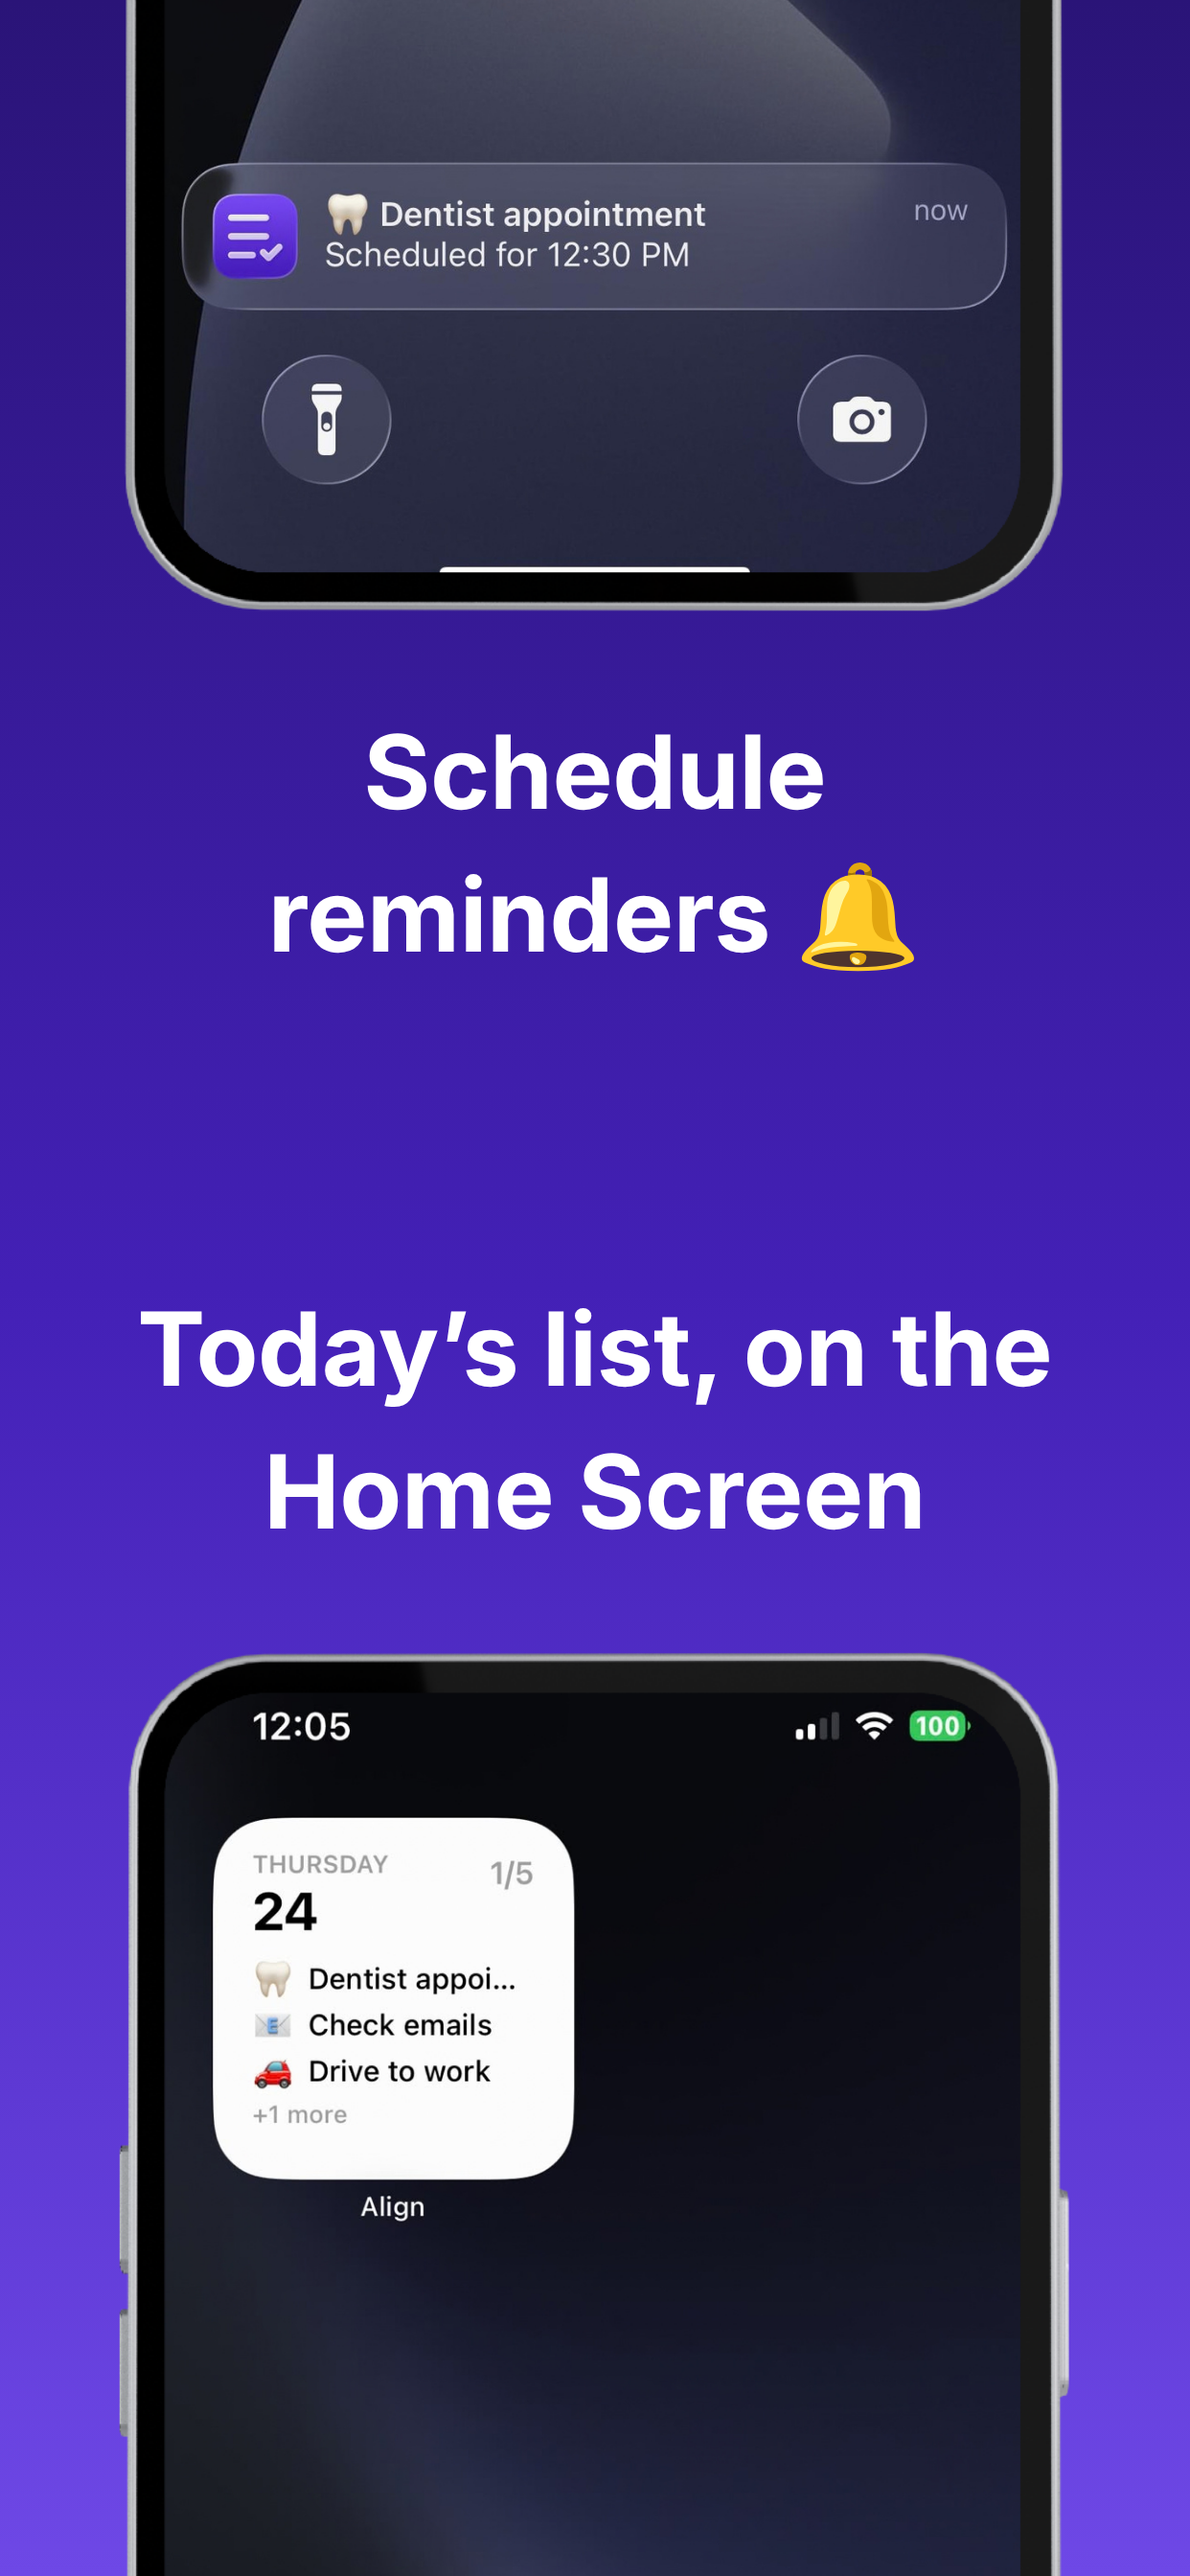
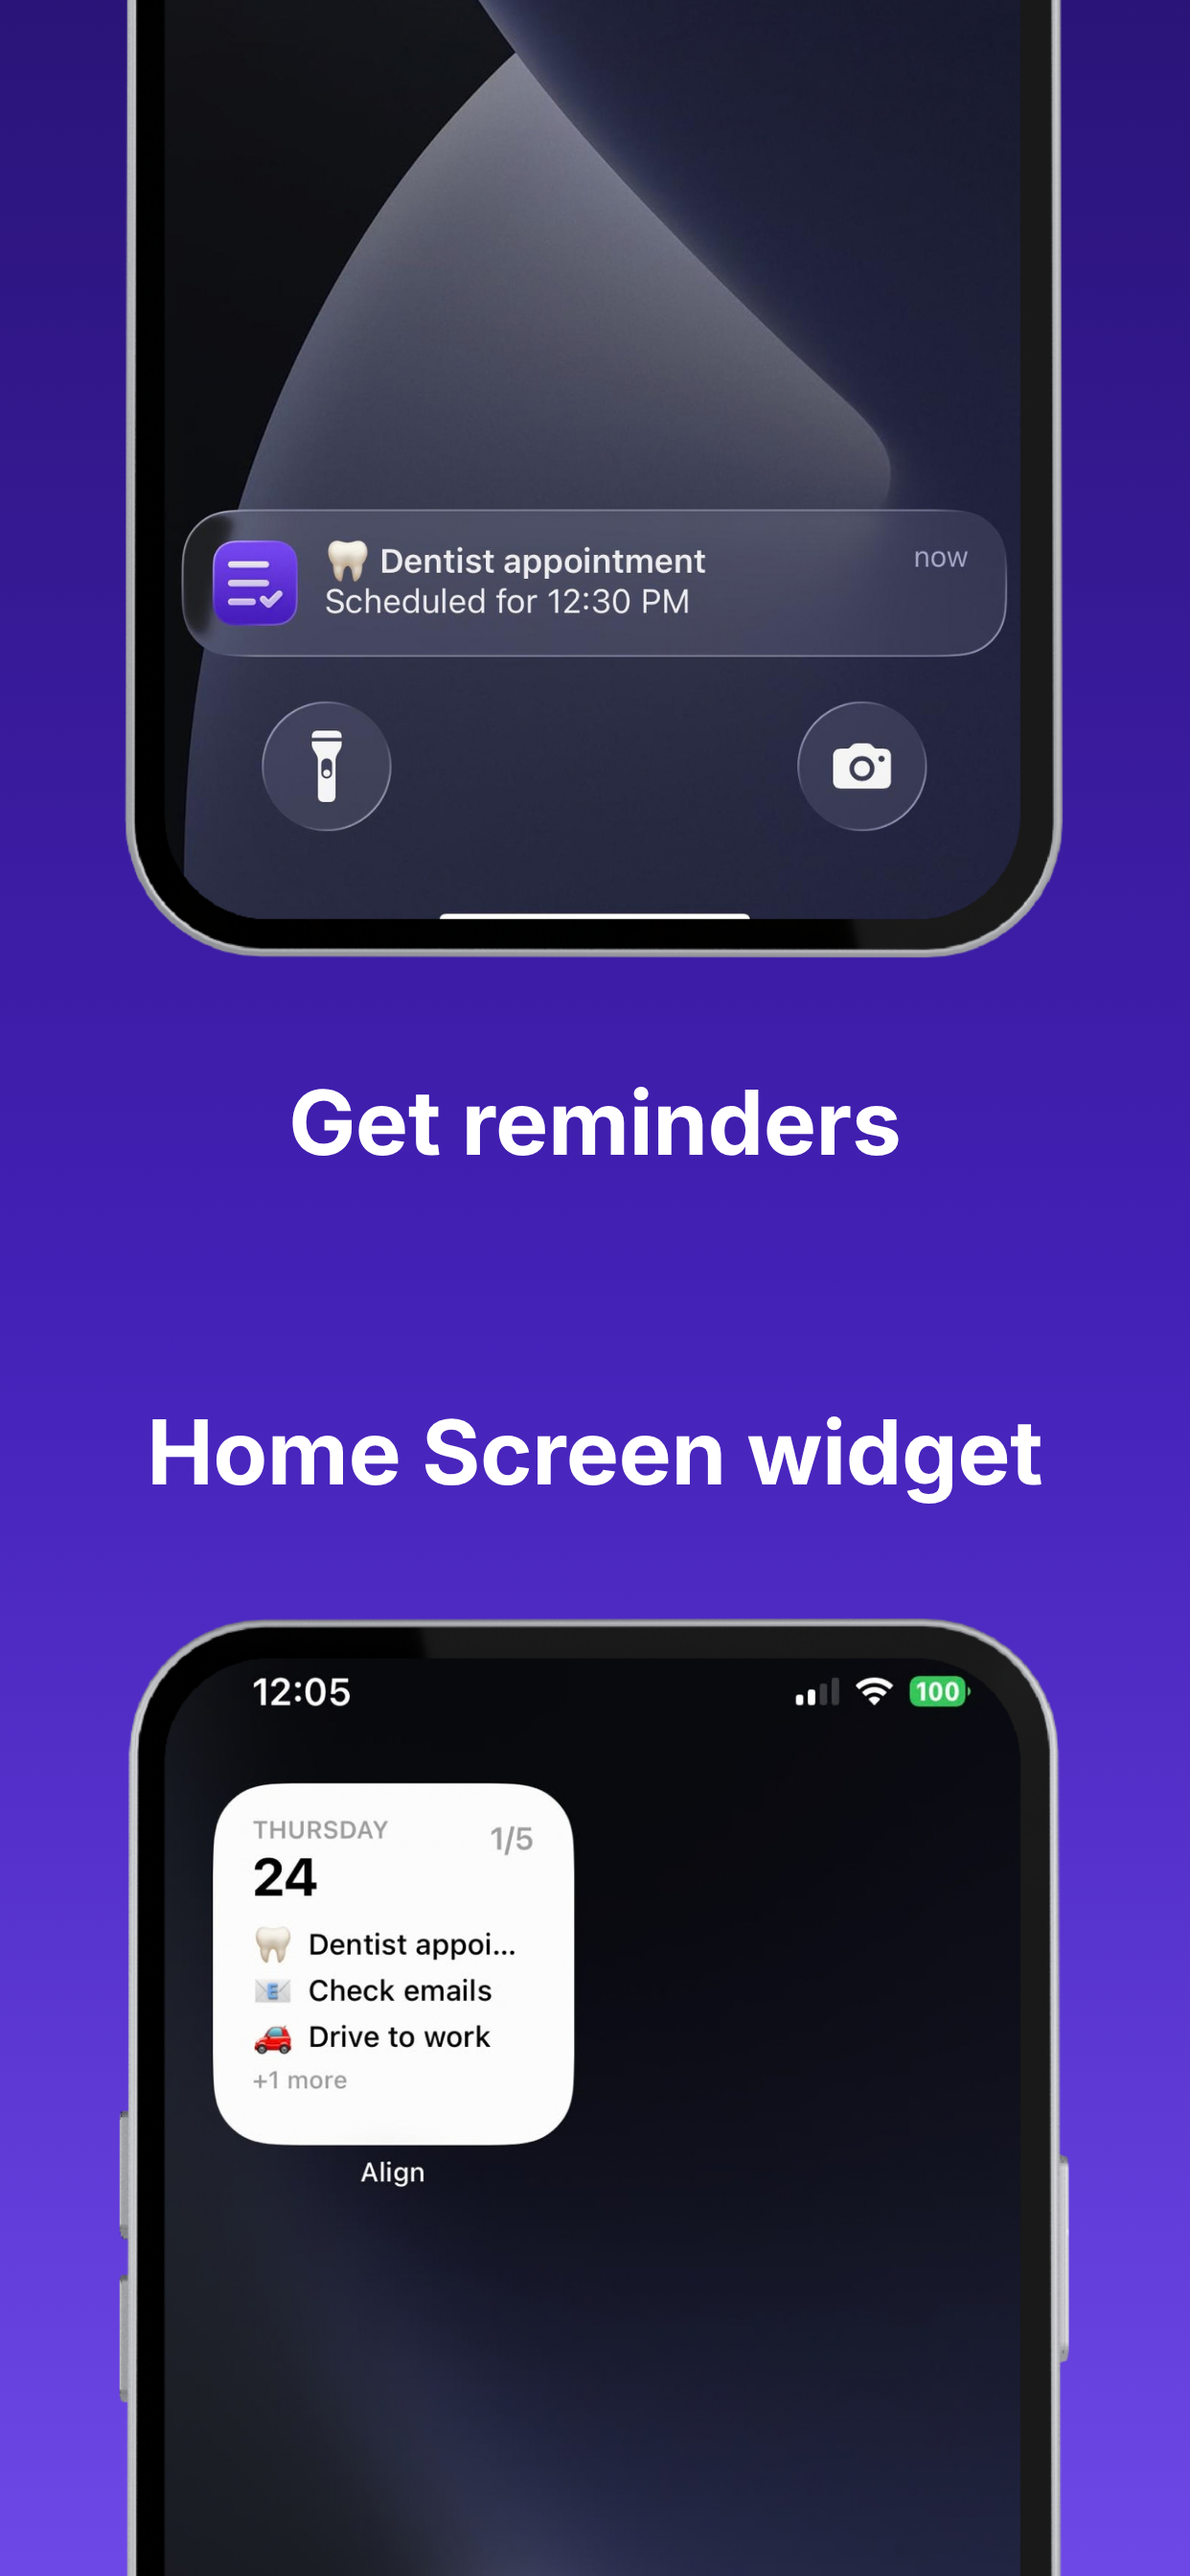
feat: update content and media assets for Align app
- Revised text across multiple pages for clarity, emphasizing the app's functionality and user experience.
- Updated image assets to reflect new branding and improved visual consistency.
- Changed references from "Quick Capture" to "Voice Capture" to better describe the feature.

diff --git a/src/app/align/page.tsx b/src/app/align/page.tsx
@@ -17,12 +17,12 @@ const faqs = [
   {
     question: "What is Align?",
     answer:
-      "Align is a daily task planner for iPhone and iPad. You speak or type what you need to do, put tasks on a clock, and work from a list you can finish.",
+      "Align is a daily planner for iPhone and iPad. You speak or type what’s on your mind, and it turns those thoughts into a clear plan you can run.",
   },
   {
     question: "Is Align a daily planner or a to-do list?",
     answer:
-      "Both. Align is a daily task planner with a to-do list at the centre: plan today, put tasks on a clock, get reminders, and check them off.",
+      "Both. Align is a daily planner with a to-do list at the centre: plan today, place tasks on the clock, get reminders, and complete them.",
   },
   {
     question: "Who is Align for?",
@@ -198,10 +198,10 @@ export default function AlignPage() {
             </div>
           </div>
           <div className="hero-main">
-            <h1 className="hero-promise">Your daily task planner</h1>
+            <h1 className="hero-promise">Your simple day planner</h1>
             <p className="hero-lede">
-              Speak or type. Plan it in seconds. Get today out of your head and
-              onto a list.
+              Speak or type what’s on your mind. Turn it into a clear plan in
+              seconds.
             </p>
             <StoreCta className="cta" />
           </div>
@@ -209,7 +209,7 @@ export default function AlignPage() {
         <div className="hero-shots">
           <p className="platforms">iPhone, iPad</p>
           <div className="shots">
-            <img src="/align/ss-todo.png" alt="Your daily task planner" />
+            <img src="/align/ss-todo.png" alt="Your simple day planner" />
             <img src="/align/ss-speak.png" alt="Speak. Brain dump your tasks." />
             <img src="/align/ss-timebox.png" alt="Your day, on a clock" />
             <img
@@ -228,11 +228,11 @@ export default function AlignPage() {
         <section className="qc-section">
           <div className="qc">
             <div className="qc-copy">
-              <p className="qc-kicker">Quick Capture</p>
+              <p className="qc-kicker">Voice Capture</p>
               <h2>Speak. Brain dump your tasks.</h2>
               <p>
-                Speak what you need to do — and when. Quick Capture turns it
-                into tasks you can save in seconds. You can type them too.
+                Speak what’s in your head. Align files each thought as a task
+                you can save in seconds. You can type them too.
               </p>
               <ol className="qc-steps">
                 <li>
@@ -253,7 +253,7 @@ export default function AlignPage() {
               loop
               playsInline
               poster="/align/ss-speak.png"
-              aria-label="Quick Capture app preview"
+              aria-label="Voice Capture app preview"
             />
           </div>
         </section>
@@ -262,34 +262,35 @@ export default function AlignPage() {
           <h2>What you can do</h2>
           <ul className="features">
             <li>
-              <strong>Quick Capture</strong> — speak what you need to do (and
-              when). Align turns it into tasks in seconds
+              <strong>Voice Capture</strong> — speak what’s in your head. Align
+              files each thought as a task
             </li>
             <li>
-              <strong>Daily to-do</strong> — add, plan, repeat, and check off
-              tasks for today and later
+              <strong>Daily to-do</strong> — add, schedule, repeat, and complete
+              tasks for today and upcoming days
             </li>
             <li>
-              <strong>Timebox</strong> — put tasks on a clock so each one has a
-              time
+              <strong>Timebox</strong> — place tasks on the clock so each one
+              has a time
             </li>
             <li>
-              <strong>Reminders</strong> — we notify you when a task is due
+              <strong>Reminders</strong> — get a notification when a scheduled
+              task is due
             </li>
             <li>
-              <strong>AI assists</strong> — emoji and how long a task might take,
-              as you type
+              <strong>Home Screen widget</strong> — see today’s tasks at a
+              glance, without opening the app
+            </li>
+            <li>
+              <strong>Progress</strong> — streaks and a week view of what you
+              actually did
             </li>
             <li>
               <strong>Small wins</strong> — start with a suggested task to get
               moving
             </li>
             <li>
-              <strong>Progress</strong> — streaks and a week view of what you did
-            </li>
-            <li>
-              <strong>Home Screen widget</strong> — today’s list, without opening
-              the app
+              <strong>Emoji and duration</strong> — added as you capture
             </li>
           </ul>
         </section>
@@ -297,12 +298,12 @@ export default function AlignPage() {
         <section className="why">
           <h2>Why we made Align</h2>
           <p>
-            Align helps you plan your day in seconds. Speak or type, put it on
-            the clock, see the week.
+            Your day shouldn’t take forever to plan. Speak or type what’s on
+            your mind, and turn it into a clear plan in seconds.
           </p>
           <p>
-            No complicated productivity system. Get today out of your head and
-            onto a list.
+            Easy to plan. Easy to run. Get today out of your head and onto a
+            list.
           </p>
         </section>
 
@@ -317,7 +318,7 @@ export default function AlignPage() {
               <h3>It’s for you if</h3>
               <ul>
                 <li>You want a simple daily task planner</li>
-                <li>You like speaking or typing a brain dump</li>
+                <li>You like speaking or typing what’s in your head</li>
                 <li>You want tasks on a clock, not a big system</li>
                 <li>You want today and the week at a glance</li>
               </ul>

diff --git a/src/content/blog.ts b/src/content/blog.ts
@@ -45,7 +45,7 @@ export const blogPosts: BlogPost[] = [
       {
         heading: "Capture has to be faster than the excuse",
         paragraphs: [
-          "Scattered days usually fail at the front door. You remember something in the kitchen, or on a walk, and the app asks you to pick a project, a tag, and a nested due date. Align’s Quick Capture is built for that moment: say what you need to do, and when. You can type it too.",
+          "Scattered days usually fail at the front door. You remember something in the kitchen, or on a walk, and the app asks you to pick a project, a tag, and a nested due date. Align’s Voice Capture is built for that moment: say what’s in your head, and Align files each thought as a task. You can type it too.",
         ],
       },
       {

diff --git a/src/lib/site.ts b/src/lib/site.ts
@@ -6,7 +6,7 @@ export const ALIGN_PATH = "/align";
 export const ALIGN_URL = `${SITE_URL}${ALIGN_PATH}`;
 export const ALIGN_APP_ID = "6758886076";
 export const ALIGN_STORE_URL =
-  "https://apps.apple.com/us/app/align-ai-planner-to-do-list/id6758886076";
+  "https://apps.apple.com/us/app/align-daily-task-planner/id6758886076";
 
 export const ALIGN_DESCRIPTION =
-  "Speak or type. Plan it in seconds. A daily task planner for iPhone and iPad — get today out of your head and onto a list.";
+  "A daily planner that turns messy thoughts into a clear plan in seconds. Speak or type what’s on your mind — for iPhone and iPad.";

diff --git a/src/app/page.tsx b/src/app/page.tsx
@@ -132,8 +132,8 @@ export default function Home() {
                   Align: Daily Task Planner
                 </h3>
                 <p className="mt-4 max-w-2xl text-zinc-300 transition group-hover:text-zinc-200">
-                  Speak or type. Plan it in seconds. Get today out of your head
-                  and onto a list.
+                  Speak or type what’s on your mind. Turn it into a clear plan
+                  in seconds.
                 </p>
               </div>
             </div>
